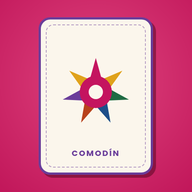
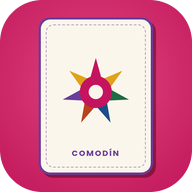
Ícono con esquinas redondeadas y pantalla de carga nítida en alta resolución
- icono_192 (ícono clásico de Android) e icono_redondo_512 (ventana) con esquinas redondeadas.
- icono_512 se queda cuadrado para Google Play, que lo redondea solo.
- Pantalla de carga de 2560x1440 con el papel picado centrado: ya no se ve borrosa.
- herramientas/generar_imagenes.gd las vuelve a generar (excluido de la app).

Claude-Session: https://claude.ai/code/session_019XP3cz5zhzQhtRmPdSwHWZ

diff --git a/tienda/FICHA_TIENDA.md b/tienda/FICHA_TIENDA.md
@@ -9,7 +9,7 @@ Todos los textos están comprobados con los límites de caracteres de cada tiend
 | Nombre en el teléfono | Mahjong en Español |
 | Versión | 1.0.0 (código de versión 1) |
 | Categoría | Juegos → Juegos de mesa |
-| Ícono 512 × 512 | `assets/icono/icono_512.png` |
+| Ícono 512 × 512 | `assets/icono/icono_512.png` (cuadrado a propósito: Google Play redondea las esquinas solo) |
 | Gráfico destacado 1024 × 500 | `tienda/grafico_destacado_1024x500.png` |
 | Capturas (1280 × 720) | `tienda/capturas/` (6 imágenes) |
 

diff --git a/README.md b/README.md
@@ -115,6 +115,7 @@ scripts/ui/              Todo lo que se ve en pantalla
   sonidos.gd             Los sonidos (generados con código)
   celebracion.gd         El confeti y el letrero de ¡Mahjong!
 tests/test_logica.gd     Pruebas automáticas de las reglas
+herramientas/            Genera el ícono redondeado y la pantalla de carga (no va en la app)
 ```
 
 La lógica está separada de los gráficos a propósito. Así puedes cambiar el aspecto
